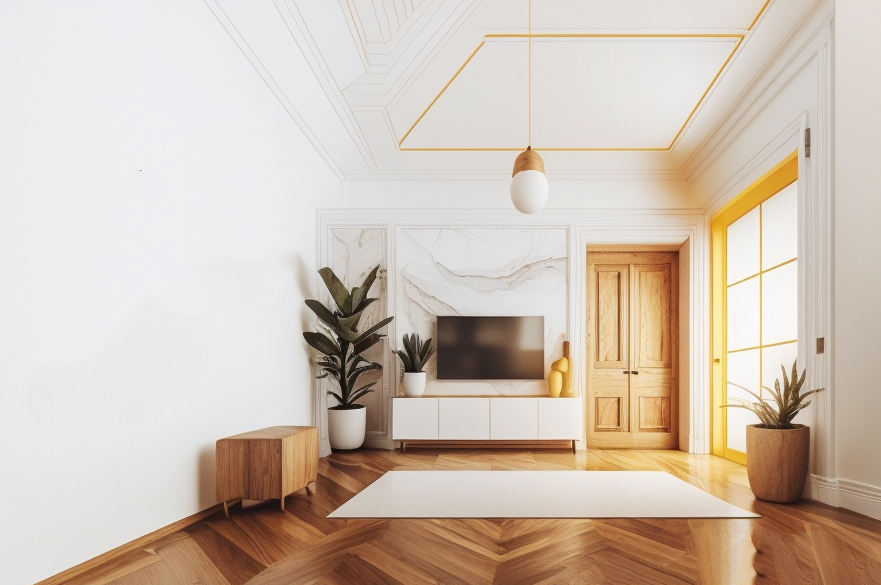
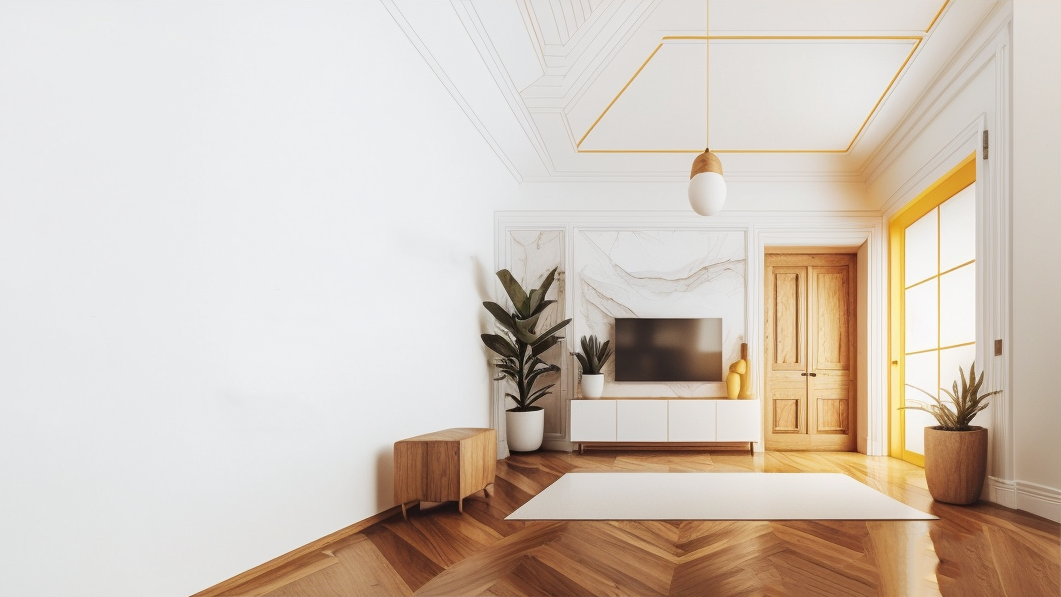
Finished hero section

diff --git a/style.css b/style.css
@@ -1,0 +1,98 @@
+@import url(/branding/colors.css);
+
+:root {
+    --header-height: 8vh;
+}
+
+* {
+    font-family: 'Inter', sans-serif;
+}
+
+body {
+    background-color: var(--background-main);
+    min-height: 100vh;
+    margin: 0;
+}
+
+h1 {
+    font-size: 60px;
+    margin: 0;
+    color: var(--text-dark);
+    text-shadow: 5px 5px 30px rgba(0, 0, 0, 0.623); /* Idk how I feel about this tho */
+}
+
+.logo>span {
+    background-color: var(--main-accent);
+    width: 50px;
+    height: 50px;
+    border-radius: 50%;
+}
+
+header {
+    height: var(--header-height);
+    /* background-color: aliceblue; */
+    padding: 1rem 3rem;
+    display: flex;
+    flex-direction: row;
+    gap: 3rem;
+    position: fixed;
+    width: 100vw;
+}
+
+header>.menu {
+    display: flex;
+    gap: 1rem;
+}
+
+header>div,
+header>.menu>div {
+    display: grid;
+    place-items: center;
+    height: 100%;
+}
+
+.menu-item {
+    color: var(--text-light);
+    transition: all 250ms ease;
+}
+
+.menu-item:hover,
+.menu-item.active {
+    color: var(--main-accent);
+    font-size: 20px;
+}
+
+section.hero {
+    background-image: url(/ai_illustrations/hero_section.png);
+    background-repeat: no-repeat;
+    background-size: cover;
+    width: 100vw;
+    height: 85vh;
+}
+
+section.hero .wrapper {
+    height: 100%;
+    display: grid;
+    place-items: center start;
+    padding: 0 10rem;
+}
+
+section.hero .wrapper>div>* {
+    max-width: 30vw;
+}
+
+section.hero .wrapper p {
+    line-height: 1.9rem;
+    color: var(--text-light);
+    margin: 2rem 0;
+}
+
+button.accent {
+    background-color: var(--main-accent);
+    border: none;
+    border-radius: 100vh;
+    padding: 1.3rem 2.3rem;
+    font-size: 13px;
+    font-weight: 500;
+    box-shadow: -8px 10px 20px #0000004a;
+}

diff --git a/index.html b/index.html
@@ -5,8 +5,32 @@
     <meta http-equiv="X-UA-Compatible" content="IE=edge">
     <meta name="viewport" content="width=device-width, initial-scale=1.0">
     <title>Comfort Lux</title>
+    <link href="/style.css" rel="stylesheet">
 </head>
 <body>
-    
+    <header>
+        <div class="logo">
+            <span></span>
+        </div>
+        <div class="divider">
+            <object data="/branding/graphics/header-spacer.svg" width="50px" height="50px"></object>
+        </div>
+        <div class="menu">
+            <div><a class="menu-item active">HOME</a></div>
+            <div><a class="menu-item">PROJECTS</a></div>
+            <div><a class="menu-item">LOL</a></div>
+        </div>
+    </header>
+    <section class="hero">
+        <div class="wrapper">
+            <div>
+                <h1>Title Here</h1>
+                <p>
+                    Lorem ipsum dolor sit amet consectetur adipisicing elit. Vero eos ducimus praesentium voluptatum cumque architecto veniam animi excepturi amet dolore. Assumenda labore voluptatibus et fuga perferendis quidem aliquid consequatur rem.
+                </p>
+                <button class="accent">OMG CLICK ME NOW</button>
+            </div>
+        </div>
+    </section>
 </body>
 </html>

diff --git a/branding/colors.css b/branding/colors.css
@@ -1,4 +1,8 @@
 :root {
-    --main-accent: #e9bf50; 
-    /* #84401c #f4de8b #93603f #624a3a #d1c1ad */
+    --main-accent: #ecc147;
+    --wood-light: #93603f;
+    --wood-dark :#624a3a;
+    --background-main: #e5e2e0;
+    --text-dark: #42413f;
+    --text-light: #b3b3b3;
 }
